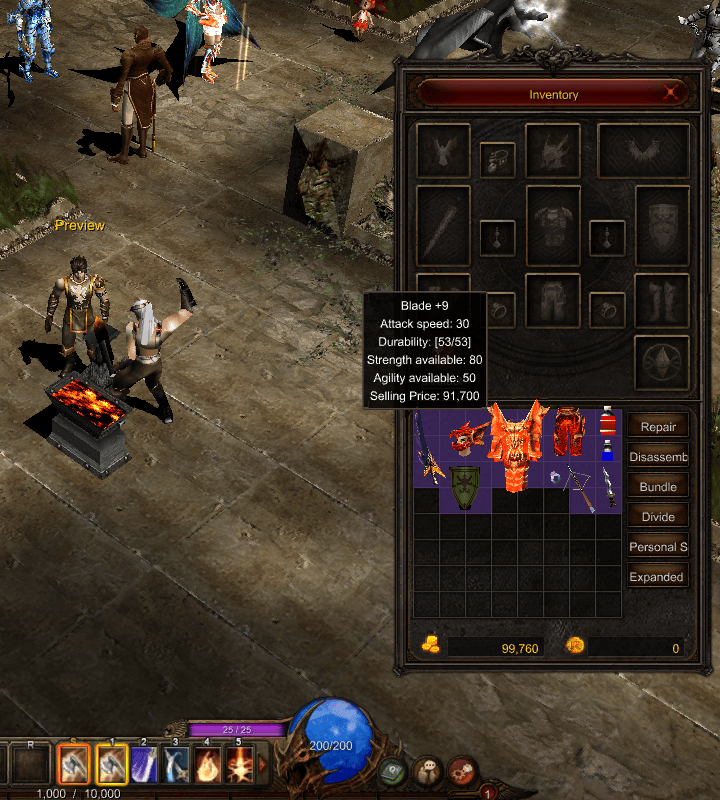
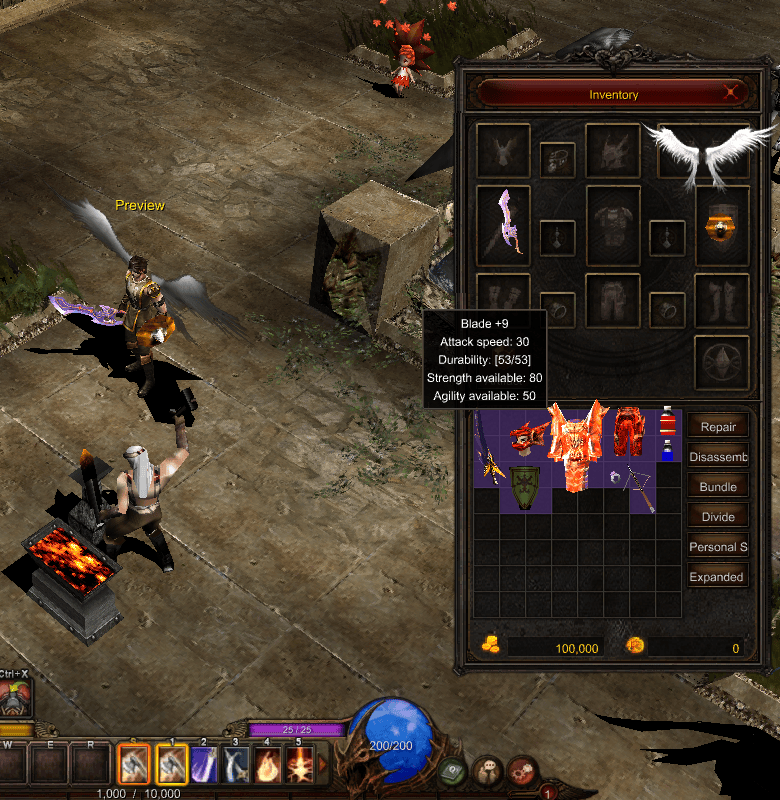
README-IMAGES-D: inventory equipment, demo outfits and capes in the README
Image 08 re-shot with the hero's equipment in the inventory slots (#343).
New 31: the shipped Lorencia demo with Ironclad's +9 excellent glow and
Redhand's Xeno Blade and Wings of Eternal (#338). New 32 (test fixture):
physics capes mid-stride (#344), Cloak of Brilliance sparks (#339) and
armour owner effects (#342). Window-only mu-world renders at world FOV 39,
MU_GFX_PUBLIC_DEMO=1, demo names only. README text: item bodies
1,363/1,674, item programs in the world, capes, Raklion/Karutan row.
Audit pins, research note, handoff and status lines updated.

diff --git a/scripts/audit_repository.py b/scripts/audit_repository.py
@@ -10,7 +10,7 @@ PRIVATE_DIRS = {'input','evidence','runtime','vendor','publish','dist','node_mod
 GENERATED = {'.exe','.dll','.bin','.obj','.bmd','.smd','.png','.jpg','.zip','.dmp','.mdmp','.dylib','.so','.o','.pyc','.orig','.new'}
 
 
-# Owner-requested README screenshots and renders (reviewed 2026-10-21, 2026-10-22 and 2026-10-28: window-only,
+# Owner-requested README screenshots and renders (reviewed 2026-10-21, 2026-10-22, 2026-10-28 and 2026-11-07: window-only,
 # no account names, passwords or private paths). Only these exact bytes are
 # documentation media; all other binary/generated inputs remain rejected.
 REVIEWED_MEDIA = {
@@ -31,7 +31,7 @@ REVIEWED_MEDIA = {
     'docs/images/07-gfx-character-window-buffs.png':
[1 lines of base64/hex data omitted]
     'docs/images/08-inventory-item-tooltip.png':
[2 lines of base64/hex data omitted]
     'docs/images/09-npc-dialogue-and-shop.jpg':
[1 lines of base64/hex data omitted]
     'docs/images/10-combat-damage-numbers.jpg':
@@ -74,6 +74,10 @@ REVIEWED_MEDIA = {
[1 lines of base64/hex data omitted]
     'docs/images/30-worlds-live-vs-native.jpg':
[1 lines of base64/hex data omitted]
+    'docs/images/31-lorencia-demo-outfits-item-glow.jpg':
[1 lines of base64/hex data omitted]
+    'docs/images/32-capes-cloak-sparks-armour-fx.jpg':
[1 lines of base64/hex data omitted]
 }
 
 

diff --git a/README.md b/README.md
@@ -125,7 +125,7 @@ creatures (fish, birds, leaves), weather, blob shadows and frustum culling. The 
 | Noria and warp sites | Portal placement and nested warp effects |
 | Santa Village, Vulcanus, Duel Arena and world 82 | Primary object create, move and visual methods |
 | Loren Market and Uruk Mountain | Primary object methods; Market lamps follow the current pose |
-| Raklion and Karutan | Primary methods completed; Karutan lamp/waterfall and Raklion/Market particle lifecycles |
+| Raklion and Karutan | Primary methods completed; Karutan lamp/waterfall and Raklion/Market particle lifecycles; Raklion's whole custom slot (the 0x14 statue's water spray, object light) and Karutan's glowing 0x81 crystal |
 | Lost Tower, Tarkan and Icarus | Built-in sprites and push bodies, lamps and plumes, Icarus bone flares |
 | Nixies Lake, Deep Dungeon 1–5, Abyss of Atlans 1–3, Kanturu Underground, Ignis Volcano | Primary object methods; Deep Dungeon dragon fires, Abyss swimmers |
 | Old/Burning Kethotum, Bloody Tarkan, worlds 131–134 and 142–144 | Primary object methods; Kardamahal and Swamp of Destruction water and after renders |
@@ -224,7 +224,10 @@ records; travel, warp requests and respawn keep their earlier offline path.
 Skill effects, joints (lightning), particles, sprites and the client's JSON effect system. Poison, Ice, Power
 Wave, Meteorite, Aqua Beam, Inferno, Rageful Blow, the Triple Shot fan and the Guardian wing draw their primary
 visuals: **20/23 primary visuals on the native cast routes (65/77 weighted by exposure)**. Rank-5 items draw
-their owner effects (19/19 types). Buff and later-class variants and a live comparison remain
+their owner effects (19/19 types). In the world, the item effect programs now run for the hero, other players and
+ground items: the Cloak of Brilliance's own sparks, and the armour pieces' owner effects on their wearers, with 0
+refused requests in the checked scenes ([cloak sparks](docs/handoffs/RENDER-EFFECTS-020.md),
+[armour](docs/handoffs/RENDER-EFFECTS-021.md)). Buff and later-class variants and a live comparison remain
 ([skill visual coverage](docs/research/client-skill-visual-coverage.md), [rank-5 effects](docs/handoffs/RENDER-EFFECTS-005.md)).
 
 <p align="center"><img src="docs/images/06-effects-skills-particles.jpg" alt="Aqua Beam, Inferno, Meteorite and Ice cast at demo monsters in Lorencia" width="900"></p>
@@ -255,8 +258,8 @@ not yet established ([help window](docs/handoffs/SYS-MISC-001b.md)).
 
 | | |
 |---|---|
-| ![Character window, buff icons and a buff popup](docs/images/07-gfx-character-window-buffs.png) | ![Inventory with textured item icons and a tooltip](docs/images/08-inventory-item-tooltip.png) |
-| Character window and buffs | Inventory icons sized from the client's ItemTRSData, tooltip and price |
+| ![Character window, buff icons and a buff popup](docs/images/07-gfx-character-window-buffs.png) | ![Inventory with the hero's equipment (Cookery Short Sword +9 excellent, Small Shield +7, Wings of Heaven), textured item icons and a tooltip](docs/images/08-inventory-item-tooltip.png) |
+| Character window and buffs | The inventory's equipment slots show the hero's gear with level glow; icons sized from ItemTRSData |
 
 ### NPCs, shops and quests
 
@@ -308,11 +311,27 @@ Guardian and Rudolph, and the Dark Raven.
 
 ### Item rendering
 
-The shared renderer now covers **1,319/1,674 special item bodies and 17/17 class skins**, with linked sprites for
-**18 targets / 24 item types**. The latest 43 bodies are armour pieces whose effect programs place sprites on the
-wearer's bones. These are bounded special draw branches, not a count of every item the client can display;
-**355 special bodies** remain ([coverage and checks](docs/handoffs/RENDER-ITEMS-002Q.md),
+The shared renderer now covers **1,363/1,674 special item bodies and 17/17 class skins**, with linked sprites for
+**18 targets / 24 item types**. These are bounded special draw branches, not a count of every item the client can
+display; **311 special bodies** remain ([coverage and checks](docs/handoffs/RENDER-ITEMS-002T.md),
 [remaining census](docs/handoffs/RENDER-ITEMS-002P.md)).
+
+Equipment now carries its level, excellent option and ext, as the hero's ITEM records do in the client. The offline
+demo's hero Ironclad carries a Cookery Short Sword +9 excellent with its level glow, and several demo players wear
+items whose effect programs run before the draw (Xeno Blade, Wings of Eternal, Wings of Dimension, Floor Hammer and
+Floor Shield) ([demo outfits](docs/handoffs/APP-POLISH-008.md)).
+
+<p align="center"><img src="docs/images/31-lorencia-demo-outfits-item-glow.jpg" alt="The offline demo in Lorencia: Ironclad with the Cookery Short Sword +9 excellent, a Small Shield and Wings of Heaven, shown enlarged in the inset; Redhand on a gold Fenrir with the Xeno Blade and Wings of Eternal" width="900"><br>
+<sub>Native client, offline demo session, Lorencia 140,124, world FOV 39. Inset: the same frame rendered at
+3200×2000 and enlarged.</sub></p>
+
+The wings with a cloak (InnocenceCape, the Cloak of Brilliance and the black cloaks) now hang a physics cloth from the
+wearer's back, as the client does: a 10×10 mass-spring cape that moves with the wind and streams behind a walking
+character. As in the original, only the classes with a cloth flag get one ([capes](docs/handoffs/RENDER-ITEMS-CLOAK.md)).
+
+<p align="center"><img src="docs/images/32-capes-cloak-sparks-armour-fx.jpg" alt="Test fixture in Lorencia: Velvet walks with a white InnocenceCape streaming behind, Nocturne wears a black cloak, the hero Preview stands with an InnocenceCape, Seraph wears the Cloak of Brilliance with its two blue half-capes and sparks, and Thorne and Ashe show their armour's owner effects" width="900"><br>
+<sub>Test fixture (a local players file with demo names, not the shipped demo), Lorencia 136,133, frame 30. A
+2560×1600 crop of a 3200×2000 render at world FOV 39.</sub></p>
 
 Item textures follow the client's own loader: the record's texture folder, the bitmap-name map and every
 startup bitmap registration. Item types that drew a white pass fell from 1,431 to **13 of 1,691** in the
@@ -398,12 +417,12 @@ removed the GL path renders 69 to 173 FPS at Retina full-screen size (3456 × 21
 | Model pipeline: decoder, bone tracks, pose builder, skinning, mesh draw | Done, verified in Unicorn |
 | World: terrain, lighting, water/lava, objects, culling, environment, weather | Primary handler methods 144/144 across 48/48 classes; class render slots 142/144 |
 | Characters: assembly, gear, glow, monsters and NPCs | Offline rendering; players/monsters/NPCs now consume session records |
-| Special item rendering | Partial; 1,319/1,674 bodies, 17/17 class skins, links for 18 targets / 24 types; 355 bodies remain |
+| Special item rendering | Partial; 1,363/1,674 bodies, 17/17 class skins, links for 18 targets / 24 types; 311 bodies remain; item effect programs, armour owner effects and wing capes in the world |
 | Item textures | The client's loader rule and all startup bitmap registrations; 13/1,691 survey types still draw a white pass (hair meshes) |
 | Movement: click-to-move, path finding, long-distance auto move, walk/run rules | Done, verified |
 | Input: one router and shared scripts across world/client tools | Implemented; 570 instruction cases, 0 mismatches, 7/7 planted mistakes caught; unavailable panels listed separately |
 | Scenes: title, login world, server select, character select and creation, loading | Offline; shared character-select runtime, unchanged render comparisons; account session still open |
-| Interface: 2D layer, legacy windows, GFx movies via Ruffle, HUD, inventory, tooltips, names, chat bubbles | Done; the HUD shows the session's HP/MP/SD/AG (1,028 cases, 0 mismatches), inventory icons use the client's ItemTRSData fit |
+| Interface: 2D layer, legacy windows, GFx movies via Ruffle, HUD, inventory, tooltips, names, chat bubbles | Done; the HUD shows the session's HP/MP/SD/AG (1,028 cases, 0 mismatches), inventory icons use the client's ItemTRSData fit, and the equipment slots show the hero's items |
 | Help window: help rows, controller, real movie | Implemented offline; 888 instruction cases, 0 mismatches, 18/18 planted mistakes caught; Ctrl+H is a native binding |
 | Gameplay systems: combat, items, NPC talk/shops/vault, quests, skills, players, pets and mounts | Offline implementations with domain-specific limits; session migrations continue |
 | Session: hero, quests, players, monsters/NPCs, combat, skills, ground items, minimap markers, party | Local plaintext fixture feeds; 11/11 scenarios, 86 inbound frames, 0 unbound/undecodable in those scenarios |
@@ -441,7 +460,7 @@ not claim original-instruction or live-game parity. The full per-milestone recor
 - **Skills and quests.** Fifth-tree card/item behavior, fourth-tree side stats, FormulaData and authoritative
   equipment/buff/event inputs remain open. NPC quest-list replies still need decoding; encrypted requests stay
   unsent ([quest limits](docs/handoffs/SESSION-QUEST-001.md), [skill limits](docs/handoffs/SESSION-SKILL-001.md)).
-- **Rendering and live comparisons.** Two class render slots (Test Area) and 355 special item bodies are
+- **Rendering and live comparisons.** Two class render slots (Test Area) and 311 special item bodies are
   left, plus further links, three primary skill visuals, buff and later-class variants, and 13 hair meshes
   without a texture. The world inventory being complete does not establish complete map fidelity: 21 of the 48
   world classes have no original capture yet, and the live temporal comparison still needs aligned animation

diff --git a/docs/research/readme-refresh.md b/docs/research/readme-refresh.md
@@ -100,3 +100,52 @@ of about 10/255 per channel, mostly ship/sea animation phase, with no visible im
 and the model decoders are unchanged since the image), 26/27 (rerunning README-STRESS-001's script on this main
 gives the same crowd frames; the only visible change is the HUD orbs, which since APP-POLISH-002 read the
 session's vitals and show `16960/0` because the stress fixture feeds no maxima, so the October frames stay).
+
+## README-IMAGES-D claim sources and media
+
+Images and text refresh on 2026-11-07 from main `02e4d94d` (the merge of #344 RENDER-ITEMS-CLOAK; the branch started
+at `a7f7b247`, #343). Every image is a window-only headless GL render of `mu-world` built in the lane
+(`nice -n 10 make -j4 -C native world`), with the installed APP-REFRESH-006 Native Data read-only (`objects/`,
+`gfx/`, `lang/`) and `MU_GFX_PUBLIC_DEMO=1`. Camera: the world FOV, 39 (every frame report reads `fov 39.000`). No live
+game, original client, account or network.
+
+| Public claim | Merged source and evidence boundary |
+|---|---|
+| Item bodies 1,363/1,674, 311 left, links 18 / 24 | [RENDER-ITEMS-002T](../handoffs/RENDER-ITEMS-002T.md) #341 (1,359 → 1,363; 002R/002S before it) |
+| Hero records: level, excellent option, ext; demo outfits | [APP-POLISH-008](../handoffs/APP-POLISH-008.md) #338; this lane's scene: hero slot 6 `0x0b2a` level 9 option 1, players 861 pre-draw effects / 0 refused over 91 frames |
+| Inventory equipment slots with the hero's gear | [INVENTORY-FX](../handoffs/INVENTORY-FX.md) #343 |
+| Cloak of Brilliance sparks; armour owner effects in the world | [RENDER-EFFECTS-020](../handoffs/RENDER-EFFECTS-020.md) #339, [RENDER-EFFECTS-021](../handoffs/RENDER-EFFECTS-021.md) #342; this lane's fixture: 164 owner effects / 0 refused, 419 pre-draw / 0 refused |
+| Physics capes of `0x2382`..`0x2385`, `0x2394`, `0x2395` | [RENDER-ITEMS-CLOAK](../handoffs/RENDER-ITEMS-CLOAK.md) #344; this lane's fixture: `cloak` 5 created, 65 drawn, 0 gated |
+| Raklion's whole custom slot, Karutan's 0x81 crystal | [RENDER-WORLDS-RAKLION](../handoffs/RENDER-WORLDS-RAKLION.md) #337, [RENDER-WORLDS-KARUTAN](../handoffs/RENDER-WORLDS-KARUTAN.md) #340 (text only, no image; see the handoff) |
+
+Common environment (from the repository root, after `. ~/Documents/MTM/mu-mac-tools/native/private-env.sh`;
+`D=$MU_NATIVE_DATA_DIR`, `MU_LANG_DIR=$D/lang`, `MU_GFX_PUBLIC_DEMO=1`):
+
+- **08** (replaced, 780×800 PNG, pngquant 70–95): `mu-world --game-root "$MU_GAME_ROOT" --objects-dir "$D/objects"
+  --headless --backend gl --no-audio --width 1280 --height 800 --class 1 --tile 138,123 --gfx "$D/gfx" --hero-name Preview
+  --placement native/world/lorencia-demo-placement.txt --items --players <copy of lorencia-demo-players.txt without
+  Aeris's party flag> --hero-item weapon0=Item/CookriShortSword.bmd@0:68:9:1 --hero-item
+  weapon1=Item/Shield01.bmd@6:0:7 --hero-item wing=Item/Wing02.bmd@12:1 --gfx-open inventory --npc-script 50:tipinv:0
+  --frames 61 --every 60` with `MU_GFX_LIB`, `MU_GFX_SINGLE_BUFFER=1`, `MU_GFX_TEST_CLOCK=1`; frame 60, crop x 500..1280.
+  The party flag was dropped so the party list does not cover the inventory window (both sit top right).
+- **31** (new, 1600×1000 JPEG): the app's demo arguments (`--placement`, `--npc --npc-demo
+  native/world/lorencia-demo-npc.txt`, `--combat --progress --items`, `--players native/world/lorencia-demo-players.txt`)
+  with Ironclad's three records as above, `--class 1 --angle 90 --tile 140,124 --hero-name Ironclad --frames 91 --every 5`,
+  once at 1600×1000 (the frame) and once at 3200×2000 (the inset: region 1250,480–1950,980, scaled 0.8). Frame 90.
+- **32** (new, 1600×1000 JPEG, test fixture): `--class 0 --angle 180 --tile 136,133 --hero-name Preview --hero-item
+  wing=Item/InnocenceCape.bmd --players <fixture> --player-range 20 --frames 61 --every 5 --width 3200 --height 2000`,
+  frame 30, region 200,250–2760,1850 scaled to 1600×1000. The fixture (local, not committed):
+
+```
+player Velvet   class=0x00 at=132,129 dir=3 pk=3 level=400 helm=7:10:7 armor=8:10:7 pants=9:10:7 gloves=10:10:7 boots=11:10:7 weapon0=0:102:7 wing=12:156:0 route=138,135;132,129 idle=4
+player Seraph   class=0x00 at=140,133 dir=7 pk=3 level=400 helm=7:10:7 armor=8:10:7 pants=9:10:7 gloves=10:10:7 boots=11:10:7 wing=12:158:0 route=134,127;140,133 idle=4
+player Nocturne class=0x04 at=131,132 dir=3 pk=3 level=400 helm=7:4:7 armor=8:4:7 pants=9:4:7 gloves=10:4:7 boots=11:4:7 wing=12:174:0 route=137,138;131,132 idle=4
+player Thorne   class=0x01 at=137,128 dir=3 pk=3 level=400 helm=7:221:0 armor=8:221:0 pants=9:221:0
+player Ashe     class=0x01 at=140,131 dir=3 pk=3 level=400 armor=8:402:0
+```
+
+JPEGs: quality 85, 4:2:0, optimized, progressive, no EXIF. SHA-256 (also the audit pins):
[3 lines of base64/hex data omitted]
+The 31 and 08 source frames were rendered again after the #344 merge and are byte-identical (no cloth wing in them).

diff --git a/docs/handoffs/README-IMAGES-D.md b/docs/handoffs/README-IMAGES-D.md
@@ -1,0 +1,68 @@
+# README-IMAGES-D: README images for the item, inventory and cape work (#337..#344)
+
+Claude Opus 5.5 lane, 2026-11-07. Branch `claude/readme-images-d`, worktree `~/Documents/MTM/worktrees/readme-images-d`,
+from main `a7f7b247` (#343), fast-forwarded to `02e4d94d` (#344 RENDER-ITEMS-CLOAK) before the cape image. Docs and
+media only: no runtime source, validator or capture script changed. Offline only: no original client, launcher, live
+read, account or network. The installed Native Preview, the Wine play app and the staged Wine app were not touched.
+[Claim sources, commands and hashes](../research/readme-refresh.md#readme-images-d-claim-sources-and-media).
+
+## Images
+
+All are window-only headless GL renders of this lane's `mu-world` at the world FOV, 39, with the APP-REFRESH-006
+Native Data (read-only) and `MU_GFX_PUBLIC_DEMO=1`. Nothing was painted over.
+
+| Image | Before | After | Size |
+|---|---|---|---|
+| 08 inventory (replaced, same name) | grid items and a tooltip; equipment slots empty | Lorencia 138,123: the equipment slots hold the hero's Cookery Short Sword +9 excellent, Small Shield +7 and Wings of Heaven (INVENTORY-FX); the same items worn in the world, with the sword's glow; Blade +9 tooltip | 780×800 PNG, 402 KB (was 720×800, 363 KB) |
+| 31 Lorencia demo outfits (new) | – | the shipped offline demo at 140,124, frame 90: Ironclad with the +9 excellent sword's level glow (inset from a 3200×2000 render of the same frame), Redhand on the gold Fenrir with the Xeno Blade +11 and Wings of Eternal | 1600×1000 JPEG, 434 KB |
+| 32 capes and effects (new, test fixture) | – | Lorencia 136,133, frame 30: Velvet mid-stride with the InnocenceCape streaming, Nocturne's black cloak (class 4, `0x2394`), the hero Preview's InnocenceCape from behind, Seraph's Cloak of Brilliance (two half-capes and its sparks), Thorne's and Ashe's armour owner effects (`0x1bc3`, `0x1c78`) | 1600×1000 JPEG, 329 KB |
+
+Added media: 434 + 329 KB new, 08 grew 39 KB; about 0.8 MB in total.
+
+32 is a 2560×1600 crop of a 3200×2000 render scaled to 1600×1000, so it frames 1.25× closer than a 1600×1000 view at
+the same FOV 39 (about the client's zoom step 30). The caption says that it is a test fixture.
+
+Not made:
+
+- **Raklion spray (#337).** At the tour tile 224,211 the 0x14 statue's WATERFALL spray changes the frame by a mean of
+  0.2–0.4 per channel (RENDER-WORLDS-RAKLION). In a 1600×1000 render it is not visible at README size.
+- **Karutan crystal (#340).** The 0x81 crystal glows at 205,17, but it covers about 0.2% of the frame. Four nearby tiles
+  were tried: the area is dark and the hero stands behind pillars. Neither earns a README image; the world table row
+  names both.
+- **01 hero.** It stays: a custom +13 crowd with mounts, which the new item work does not change. 31 shows the demo
+  outfits instead.
+
+## Text
+
+README: world table (Raklion/Karutan row), effects paragraph (item programs in the world, cloak sparks, armour owner
+effects), item rendering (1,363/1,674, 311 left, cites 002T; demo outfits paragraph with 31; capes paragraph with 32),
+the interface table's 08 alt text and caption, Progress rows (special items, interface) and What is still missing
+(311 bodies). Audit pins: 08 changed, 31 and 32 added. Research note: [readme-refresh.md](../research/readme-refresh.md#readme-images-d-claim-sources-and-media).
+
+## Privacy review
+
+Each encoded file was read at full size in quadrants. Names visible: Ironclad, Redhand, the cut-off end of Aeris (31);
+Preview, Velvet, Nocturne, Seraph, Thorne, Ashe (32, fixture names); Preview (08). 08's HUD has the public demo values
+(1,100/1,100, 200/200, 25/25, 1,000 / 10,000 experience, zen 100,000). No account or real character name (the
+owner's character never appears: every render passes `--hero-name`), no server address, chat, local path or desktop chrome.
+
+## Findings for other lanes
+
+1. **Grey ground patches.** `mu-world` GL 1280×800, Lorencia 138,123, with `--npc --npc-demo ... --gfx-open inventory
+   --npc-script 50:tipinv:0` and a players file without any `party` player draws large flat light-grey polygons over the
+   terrain and turns the grass grey (deterministic: identical bytes on reruns). Not with the shipped players file (the
+   party list is open), not without `--npc`, and not without the tooltip. It looks like GL state or a texture name
+   leaking from the GFx tooltip path into the terrain draw. Not investigated (docs lane). 08 uses the scene without
+   `--npc`, which is clean.
+2. Overhead names are drawn at a fixed pixel size, so a 3200×2000 render scaled down shows them small (31's inset, 32).
+
+## Checks
+
+Listed with wall times in the PR body. Steward validators: none (docs/media, rule 6c). No capture script changed, so
+`test_native_stress` was not run.
+
+## Cleanup
+
+After the ready line, the scratch folder `~/Documents/MTM/mu-mac-tools/native/scratch/readme-images-d` (renders,
+crops, fixture, compose script) and this worktree's `native/build` are deleted. No local input needs keeping; the
+commands and the fixture are in the research note.

diff --git a/docs/status.md b/docs/status.md
@@ -1,5 +1,7 @@
 # Current status
 
+README-IMAGES-D PR-ready: the README shows the item work of #337..#344. Image 08 (inventory) re-shot with the equipment slots holding the hero's Cookery Short Sword +9 excellent, Small Shield +7 and Wings of Heaven (INVENTORY-FX); new 31: the shipped Lorencia demo with Ironclad's +9 level glow (inset) and Redhand's Xeno Blade and Wings of Eternal (APP-POLISH-008); new 32 (test fixture): physics capes mid-stride (RENDER-ITEMS-CLOAK), the Cloak of Brilliance's sparks and armour owner effects (RENDER-EFFECTS-020/021). All window-only `mu-world` renders at the world FOV 39, `MU_GFX_PUBLIC_DEMO=1`, demo names only; Raklion's spray and Karutan's crystal are too small at README size and are named in text. Text: item bodies 1,363/1,674 (311 left), item programs in the world, capes. Audit pins: 08 changed, 31/32 added. [Handoff](handoffs/README-IMAGES-D.md).
+
 INVENTORY-FX PR-ready: the inventory window now draws the hero's equipment and its icons' level, option and ext as the client does. The client's inventory item render `0x00b913a2` draws, after the grid, the ITEMs CharacterMachine `+0x1b58 + s·0x12c` in the rectangles of the movie's `EQUIPrequestSlotInfo` (`0x00b958e1`). Native ignored that callback, so the equipment slots were empty; Ironclad now shows his Cookery Short Sword +9 excellent, shield +7 and wings there. RenderPartObject passes RenderObjectScreen's level word, excellent flag and set bits to RenderObjDraw unchanged, so the excellent pass and ext reach every icon. Icons' pre-draw programs run with the TestFrustrum2D flag at their screen position, and their sprites (and the `0x389c` skin sprites) join the world's list, which only the scene renders' RenderSprites draws: the client draws no sprite over an icon. `0x00a497c6`/`0x00a49bc9` are the render callback of object type `0x67a`, not the inventory. validate_inventory_fx 8,017 cases, 0 mismatches, 14/14 mutants. Character select levels: not done (character-list packet data). [Handoff](handoffs/INVENTORY-FX.md).
 
 RENDER-EFFECTS-021 PR-ready: the item programs' last particle requests without a native kind, and the armour owner programs in the world. Client: Clud64 `0x7ffd`/0x1b (bow `0x1316`; create `0x015c304a`, move `0x0163274d`, render `0x0159504f`), Shiny01 `0x7f66`/5 (`0x230c`, `0x2496`; `0x015e60e5`, `0x01658bd3`, default sprite) and shiny06 `0x8180`/5 (`0x23ef`, `0x2400`, `0x2405`; jump-table index 5 goes to each switch's end: a two-step record with no sprite). Native: `reconstructed/particles/item_predraw_kinds.inc`. The 43 owner-program types (`0x1bc3..0x1c78` and five helms) now run for players, the hero and player-model actors with the wearer's OBJECT (`world_rt_part_owner`: the posed Player.bmd `player_bones` as `+0x318`, the character angle; `0x012b678d`/`0x0129f12c`). Refusals: crowd GL 5 -> 0, Archer-only 17 -> 0, wing wearers 10 -> 0; armour wearers 0 -> 144 owner effects with 0 refused, hero 68 / 0. New `validate_render_effects21`: 13,007 cases, 0 mismatches, 19/19 mutants. Tours byte-identical (no wearer in view). [Handoff](handoffs/RENDER-EFFECTS-021.md).

diff --git a/docs/roadmap.md b/docs/roadmap.md
@@ -1,5 +1,7 @@
 # Roadmap and work queue
 
+README-IMAGES-D PR-ready: the README shows the item work of #337..#344. Image 08 (inventory) re-shot with the equipment slots holding the hero's Cookery Short Sword +9 excellent, Small Shield +7 and Wings of Heaven (INVENTORY-FX); new 31: the shipped Lorencia demo with Ironclad's +9 level glow (inset) and Redhand's Xeno Blade and Wings of Eternal (APP-POLISH-008); new 32 (test fixture): physics capes mid-stride (RENDER-ITEMS-CLOAK), the Cloak of Brilliance's sparks and armour owner effects (RENDER-EFFECTS-020/021). All window-only `mu-world` renders at the world FOV 39, `MU_GFX_PUBLIC_DEMO=1`, demo names only; Raklion's spray and Karutan's crystal are too small at README size and are named in text. Text: item bodies 1,363/1,674 (311 left), item programs in the world, capes. Audit pins: 08 changed, 31/32 added. [Handoff](handoffs/README-IMAGES-D.md).
+
 INVENTORY-FX PR-ready: the inventory window now draws the hero's equipment and its icons' level, option and ext as the client does. The client's inventory item render `0x00b913a2` draws, after the grid, the ITEMs CharacterMachine `+0x1b58 + s·0x12c` in the rectangles of the movie's `EQUIPrequestSlotInfo` (`0x00b958e1`). Native ignored that callback, so the equipment slots were empty; Ironclad now shows his Cookery Short Sword +9 excellent, shield +7 and wings there. RenderPartObject passes RenderObjectScreen's level word, excellent flag and set bits to RenderObjDraw unchanged, so the excellent pass and ext reach every icon. Icons' pre-draw programs run with the TestFrustrum2D flag at their screen position, and their sprites (and the `0x389c` skin sprites) join the world's list, which only the scene renders' RenderSprites draws: the client draws no sprite over an icon. `0x00a497c6`/`0x00a49bc9` are the render callback of object type `0x67a`, not the inventory. validate_inventory_fx 8,017 cases, 0 mismatches, 14/14 mutants. Character select levels: not done (character-list packet data). [Handoff](handoffs/INVENTORY-FX.md).
 
 APP-POLISH-008 PR-ready: the shipped offline demo now shows #330's and #334's item work. The character list takes an optional equipment record per item, `SLOT=FILE@GROUP:INDEX[:LEVEL[:OPTION[:EXT]]]` (file-only lines load unchanged), which reaches the hero's part slots through SetCharacterClass's reconstruction (`mu_he_item_of_record`; validate_hero_items family `record` 3,000 cases, 0 mismatches, 18/18 mutants). Ironclad wears the Cookery Short Sword 0:68 = `0x0b2a` +9 excellent (was the file's [Bound] record `0x0b27` at level 0; skill rules unchanged); the other demo heroes carry their own records at +7. Four Lorencia demo players wear fully served pre-draw types (`0x1748`, `0x0b4c` + `0x230b`, `0x2311`, `0x0f1c`): at the join tile 140,130 the demo crowd goes from no pre-draw line to players 98 drawn / 0 refused, hero 8 / 0, and the hero's sword draws 8 passes (2 at level 0). Stats, vitals and combat numbers unchanged; tours byte-identical; no README image changes. [Handoff](handoffs/APP-POLISH-008.md).
